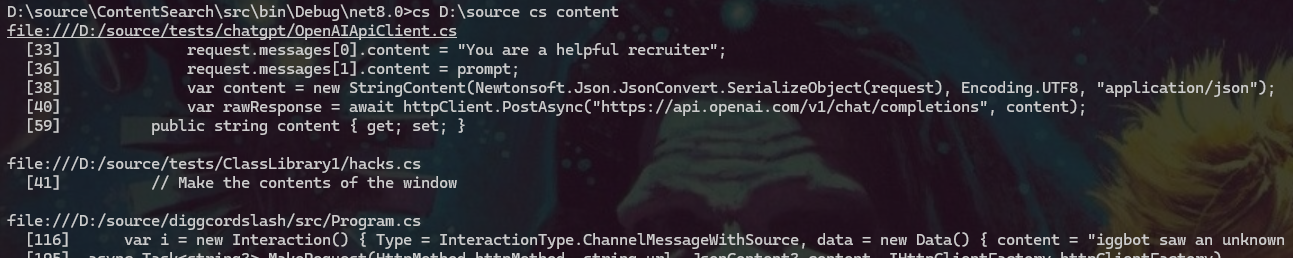
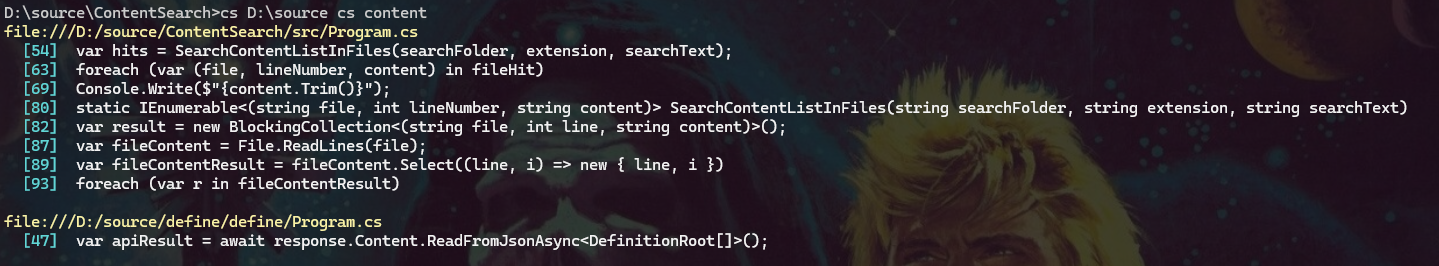
Add customisable colouring

diff --git a/src/Program.cs b/src/Program.cs
@@ -1,36 +1,81 @@
-using System.Collections.Concurrent;
+using Microsoft.Extensions.Configuration;
+using System.Collections.Concurrent;
+using System.Drawing;
 
-if (args.Length != 3)
+var builder = new ConfigurationBuilder()
+                .AddJsonFile($"cs.json", true, true);
+
+var config = builder.Build();
+var fileForegroundColour = Color.FromName(config["FileForegroundColour"] ?? "Yellow");
+var fileBackgroundColour = Color.FromName(config["FileBackgroundColour"] ?? "Black");
+
+var fileForegroundConsoleColour = FromColour(fileForegroundColour);
+var fileBackgroundConsoleColour = FromColour(fileBackgroundColour);
+
+var lineNumberGoregroundColor = Color.FromName(config["LineNumberForegroundColor"] ?? "Cyan");
+var lineNumberGoregroundConsoleColor = FromColour(lineNumberGoregroundColor);
+
+var lineForegroundColour = Color.FromName(config["LineForegroundColour"] ?? "White");
+var lineForegroundConsoleColour = FromColour(lineForegroundColour);
+
+var lineBackgroundColour = Color.FromName(config["LineBackgroundColour"] ?? "Black");
+var lineBackgroundConsoleColour = FromColour(lineBackgroundColour);
+
+var defaultForegroundColour = Color.FromName(config["DefaultForegroundColour"] ?? "White");
+var defaultForegroundConsoleColour = FromColour(defaultForegroundColour);
+
+var defaultBackgroundColour = Color.FromName(config["DefaultBackgroundColour"] ?? "Black");
+var defaultBackgroundConsoleColour = FromColour(defaultBackgroundColour);
+
+if (args.Length < 3)
 {
     Console.WriteLine("Usage: ");
-    Console.WriteLine("  directory fileextension searchtext");
-    Console.WriteLine("  e.g. cs C:\\source cs enumerable");
+    Console.WriteLine("  directory fileextension search text");
+    Console.WriteLine("  e.g. cs C:\\source cs public void");
     return;
 }
 
 if (!Directory.Exists(args[0]))
 {
-    Console.WriteLine("The specified directory '{0}' does not exist");
+    Console.WriteLine($"The specified directory '{args[0]}' does not exist");
     return;
 }
 
 var searchFolder = args[0];
 var extension = args[1];
-var searchText = args[2];
+
+var searchText = String.Empty;
+foreach (var arg in args.Skip(2))
+{
+    searchText += arg + " ";
+}
+searchText = searchText.Trim();
+
 
 var hits = SearchContentListInFiles(searchFolder, extension, searchText);
 
 foreach (var fileHit in hits.GroupBy(gb => gb.file))
 {
+    Console.ForegroundColor = fileForegroundConsoleColour;
+    Console.BackgroundColor = fileBackgroundConsoleColour;
     // Swap \ for / to Windows Terminal makes a clickable link
     Console.WriteLine($"file:///{fileHit.Key.Replace('\\', '/')}");
 
     foreach (var (file, lineNumber, content) in fileHit)
     {
-        Console.WriteLine($"  [{lineNumber}]  {content.Trim()}");
+        Console.BackgroundColor = lineBackgroundConsoleColour;
+        Console.ForegroundColor = lineNumberGoregroundConsoleColor;
+        Console.Write($"  [{lineNumber}]  ");
+        Console.ForegroundColor = lineForegroundConsoleColour;
+        Console.Write($"{content.Trim()}");
+        Console.WriteLine();
     }
     Console.WriteLine();
 }
+
+Console.ForegroundColor = defaultForegroundConsoleColour;
+Console.BackgroundColor = defaultBackgroundConsoleColour;
+
 
 
 static IEnumerable<(string file, int lineNumber, string content)> SearchContentListInFiles(string searchFolder, string extension, string searchText)
@@ -53,4 +98,14 @@ static IEnumerable<(string file, int lineNumber, string content)> SearchContentL
     });
 
     return result;
+}
+
+// https://stackoverflow.com/a/29192463/9659
+static ConsoleColor FromColour(Color c)
+{
+    int index = (c.R > 128 | c.G > 128 | c.B > 128) ? 8 : 0; // Bright bit
+    index |= (c.R > 64) ? 4 : 0; // Red bit
+    index |= (c.G > 64) ? 2 : 0; // Green bit
+    index |= (c.B > 64) ? 1 : 0; // Blue bit
+    return (System.ConsoleColor)index;
 }

diff --git a/readme.md b/readme.md
@@ -33,6 +33,25 @@ cs will run a case-insensitive scan the specified directory and all sub-director
 ![screenshot showing output](resources/screenshot.png)
 
 
+## Configuration
+
+cs will read configuration values from cs.json if the file exists. The default file content is below
+cs.json
+```
+{
+  "FileForegroundColour": "Yellow",
+  "FileBackgroundColour": "Black",
+  "LineNumberForegroundColor": "Cyan",
+  "LineForegroundColour": "White",
+  "LineBackgroundColour": "Black",
+  "DefaultForegroundColour": "White",
+  "DefaultBackgroundColour": "Black"
+}
+```
+
+The configuration sets colouring options in the output. Colours are .NET colour types mapped to ConsoleColour types. Invalid colours are mapped as black.
+
+
 ## Licencing
 
 Content Search is licenced under CC BY-NC-ND 4.0 https://creativecommons.org/licenses/by-nc-nd/4.0/ Full licence details are available in licence.md
